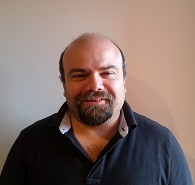
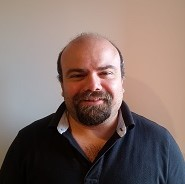
Add speakers & update pictures

diff --git a/index.html b/index.html
@@ -233,7 +233,7 @@
                             <span class="orador"><u>Orador</u>: <strong>Javier Villegas</strong></span>
                         </div>
                         <div class="timeline-content itpro right">
-                            <h2><small><strong>14:45 - 15:25</strong></small>Azure Event Hub - Procesando telemetria de las apps</h2>
+                            <h2><small><strong>14:45 - 15:25</strong></small>Azure Event Hub - Procesando telemetría de las apps</h2>
                             <p></p>
                             <span class="orador"><u>Orador</u>: <strong>Leandro Tuttini</strong></span>
                         </div>
@@ -323,8 +323,8 @@
                             <p>
                                 Requisitos:
                                 <ul class="mdl-typography--text-left">
-                                    <li>Visual Studio 2017 con las tools de Service Fabric instaladas (se instalan junto con VS).</li>
-                                    <li>Visual Studio 2015 + <a href="https://www.microsoft.com/web/handlers/webpi.ashx?command=getinstallerredirect&appid=MicrosoftAzure-ServiceFabric-VS2015" target="blank">tools de Service Fabric para VS2015</a>.</li>
+                                    <li>Cuenta de Azure</li>
+                                    <li>Visual Studio 2017</li>
                                 </ul>
                             </p>
                             <span class="orador"><u>Oradores</u>: <strong>Germán Küber</strong> y <strong>Gabriel Barzola</strong></span>
@@ -336,7 +336,288 @@
             <div class="mdl-typography--text-center section">
                 <a id="speakers"></a>
                 <div class="mdl-typography--display-1-color-contrast">Speakers</div>
-                <p>Próximamente</p>
+                <div class="mdl-grid">
+                    <div class="mdl-cell mdl-cell--1-col mdl-cell--hide-tablet mdl-cell--hide-phone"></div>
+                    <div class="mdl-cell mdl-cell--10-col mdl-cell--6-col-tablet mdl-cell--4-col-phone">
+                        <div class="mdl-grid">
+                            <div class="mdl-cell mdl-cell--4-col mdl-cell--6-col-tablet">
+                                <div class="mdl-card mdl-shadow--4dp">
+                                    <div class="mdl-card__title">
+                                        <h2 class="mdl-card__title-text">Rodolfo Finochietti</h2>
+                                    </div>
+                                    <div class="mdl-card__media">
+                                        <img src="content/images/speakers/rodolfo-finochietti.jpg" border="0" alt="" style="width:100%; height:auto;">
+                                    </div>
+                                    <div class="mdl-card__supporting-text">
+                                        Uma's and Gino's father and a computer programmer ;) Microsoft MVP.
+                                    </div>
+                                    <div class="mdl-card__actions">
+                                        <a target="_blank" href="https://twitter.com/rodolfof"><img src="https://www.gstatic.com/images/icons/material/system/2x/post_twitter_black_24dp.png" /></a>
+                                        <a target="_blank" href="http://www.facebook.com/rodolfo.eduardo.finochietti"><img src="https://www.gstatic.com/images/icons/material/system/2x/post_facebook_black_24dp.png" /></a>
+                                        <a target="_blank" href="http://www.linkedin.com/in/rodolfof"><img src="https://www.gstatic.com/images/icons/material/system/2x/post_linkedin_black_24dp.png" /></a>
+                                    </div>
+                                </div>
+                            </div>
+                            <div class="mdl-cell mdl-cell--4-col mdl-cell--6-col-tablet">
+                                <div class="mdl-card mdl-shadow--4dp">
+                                    <div class="mdl-card__title">
+                                        <h2 class="mdl-card__title-text">Maximiliano Accotto</h2>
+                                    </div>
+                                    <div class="mdl-card__media">
+                                        <img src="content/images/speakers/maxi-accotto.jpg" border="0" alt="" style="width:100%; height:auto;">
+                                    </div>
+                                    <div class="mdl-card__supporting-text">
+                                        Microsoft MVP, arquitecto, consultor y DBA en SQL Server at TriggerDB.
+                                    </div>
+                                    <div class="mdl-card__actions">
+                                        <a target="_blank" href="https://twitter.com/maxiaccotto"><img src="https://www.gstatic.com/images/icons/material/system/2x/post_twitter_black_24dp.png" /></a>
+                                        <a target="_blank" href="https://ar.linkedin.com/in/maxiaccotto"><img src="https://www.gstatic.com/images/icons/material/system/2x/post_linkedin_black_24dp.png" /></a>
+                                    </div>
+                                </div>
+                            </div>
+                            <div class="mdl-cell mdl-cell--4-col mdl-cell--6-col-tablet">
+                                <div class="mdl-card mdl-shadow--4dp">
+                                    <div class="mdl-card__title">
+                                        <h2 class="mdl-card__title-text">Guillermo Bellmann</h2>
+                                    </div>
+                                    <div class="mdl-card__media">
+                                        <img src="content/images/speakers/guillermo-bellmann.jpg" border="0" alt="" style="width:100%; height:auto;">
+                                    </div>
+                                    <div class="mdl-card__supporting-text">
+                                        Software architect en Lagash. Microsoft Azure MVP. MCP.
+                                    </div>
+                                    <div class="mdl-card__actions">
+                                        <a target="_blank" href="https://twitter.com/gjbellmann"><img src="https://www.gstatic.com/images/icons/material/system/2x/post_twitter_black_24dp.png" /></a>
+                                        <a target="_blank" href="https://www.linkedin.com/in/gbellmann/"><img src="https://www.gstatic.com/images/icons/material/system/2x/post_linkedin_black_24dp.png" /></a>
+                                    </div>
+                                </div>
+                            </div>
+                            <div class="mdl-cell mdl-cell--4-col mdl-cell--6-col-tablet">
+                                <div class="mdl-card mdl-shadow--4dp">
+                                    <div class="mdl-card__title">
+                                        <h2 class="mdl-card__title-text">Pablo Di Loreto</h2>
+                                    </div>
+                                    <div class="mdl-card__media">
+                                        <img src="content/images/speakers/pablo-diloreto.jpg" border="0" alt="" style="width:100%; height:auto;">
+                                    </div>
+                                    <div class="mdl-card__supporting-text">
+                                        Architecture &amp; Development Manager en Algeiba S.A., Microsoft MVP.
+                                    </div>
+                                    <div class="mdl-card__actions">
+                                        <a target="_blank" href="https://twitter.com/PabloDiLoreto"><img src="https://www.gstatic.com/images/icons/material/system/2x/post_twitter_black_24dp.png" /></a>
+                                        <a target="_blank" href="https://www.linkedin.com/in/pablodiloreto/"><img src="https://www.gstatic.com/images/icons/material/system/2x/post_linkedin_black_24dp.png" /></a>
+                                    </div>
+                                </div>
+                            </div>
+                            <div class="mdl-cell mdl-cell--4-col mdl-cell--6-col-tablet">
+                                <div class="mdl-card mdl-shadow--4dp">
+                                    <div class="mdl-card__title">
+                                        <h2 class="mdl-card__title-text">Sebastián Pérez</h2>
+                                    </div>
+                                    <div class="mdl-card__media">
+                                        <img src="content/images/speakers/sebastian-perez.jpg" border="0" alt="" style="width:100%; height:auto;">
+                                    </div>
+                                    <div class="mdl-card__supporting-text">
+                                            Xamarin Certified Mobile Professional.
+                                            Blockchain Dev &amp; Partner Tech Manager en RSK Smart.
+                                    </div>
+                                    <div class="mdl-card__actions">
+                                        <a target="_blank" href="https://twitter.com/garudaslap"><img src="https://www.gstatic.com/images/icons/material/system/2x/post_twitter_black_24dp.png" /></a>
+                                        <a target="_blank" href="https://www.linkedin.com/in/sebasti%C3%A1n-leonardo-p%C3%A9rez-6881659/"><img src="https://www.gstatic.com/images/icons/material/system/2x/post_linkedin_black_24dp.png" /></a>
+                                    </div>
+                                </div>
+                            </div>
+                            <div class="mdl-cell mdl-cell--4-col mdl-cell--6-col-tablet">
+                                <div class="mdl-card mdl-shadow--4dp">
+                                    <div class="mdl-card__title">
+                                        <h2 class="mdl-card__title-text">Javier Villegas</h2>
+                                    </div>
+                                    <div class="mdl-card__media">
+                                        <img src="content/images/speakers/javier-villegas.jpg" border="0" alt="" style="width:100%; height:auto;">
+                                    </div>
+                                    <div class="mdl-card__supporting-text">
+                                        DBA Manager, Mediterranean Shipping Company
+                                    </div>
+                                    <div class="mdl-card__actions">
+                                        <a target="_blank" href="https://twitter.com/javier_vill"><img src="https://www.gstatic.com/images/icons/material/system/2x/post_twitter_black_24dp.png" /></a>
+                                        <a target="_blank" href="https://www.linkedin.com/in/javiervillegas/"><img src="https://www.gstatic.com/images/icons/material/system/2x/post_linkedin_black_24dp.png" /></a>
+                                    </div>
+                                </div>
+                            </div>
+                            <div class="mdl-cell mdl-cell--4-col mdl-cell--6-col-tablet">
+                                <div class="mdl-card mdl-shadow--4dp">
+                                    <div class="mdl-card__title">
+                                        <h2 class="mdl-card__title-text">Florencia Nodar</h2>
+                                    </div>
+                                    <div class="mdl-card__media">
+                                        <img src="content/images/speakers/florencia-nodar.jpg" border="0" alt="" style="width:100%; height:auto;">
+                                    </div>
+                                    <div class="mdl-card__supporting-text">
+                                        Software Solution Developer, Algeiba IT
+                                    </div>
+                                    <div class="mdl-card__actions">
+                                        <a target="_blank" href="https://twitter.com/nodar_flor"><img src="https://www.gstatic.com/images/icons/material/system/2x/post_twitter_black_24dp.png" /></a>
+                                        <a target="_blank" href="https://www.linkedin.com/in/florencia-nodar-2697b211b/"><img src="https://www.gstatic.com/images/icons/material/system/2x/post_linkedin_black_24dp.png" /></a>
+                                    </div>
+                                </div>
+                            </div>
+                            <div class="mdl-cell mdl-cell--4-col mdl-cell--6-col-tablet">
+                                <div class="mdl-card mdl-shadow--4dp">
+                                    <div class="mdl-card__title">
+                                        <h2 class="mdl-card__title-text">Sabrina Orué</h2>
+                                    </div>
+                                    <div class="mdl-card__media">
+                                        <img src="content/images/speakers/sabrina-orue.jpg" border="0" alt="" style="width:100%; height:auto;">
+                                    </div>
+                                    <div class="mdl-card__supporting-text">
+                                        Software Solution Developer, Algeiba IT
+                                    </div>
+                                    <div class="mdl-card__actions">
+                                        <a target="_blank" href="https://twitter.com/SabryOrue"><img src="https://www.gstatic.com/images/icons/material/system/2x/post_twitter_black_24dp.png" /></a>
+                                        <a target="_blank" href="https://www.linkedin.com/in/sabrina-ayelen-orué-4aab5b131/"><img src="https://www.gstatic.com/images/icons/material/system/2x/post_linkedin_black_24dp.png" /></a>
+                                    </div>
+                                </div>
+                            </div>
+                            <div class="mdl-cell mdl-cell--4-col mdl-cell--6-col-tablet">
+                                <div class="mdl-card mdl-shadow--4dp">
+                                    <div class="mdl-card__title">
+                                        <h2 class="mdl-card__title-text">Branko Straub</h2>
+                                    </div>
+                                    <div class="mdl-card__media">
+                                        <img src="content/images/speakers/branko-straub.jpg" border="0" alt="" style="width:100%; height:auto;">
+                                    </div>
+                                    <div class="mdl-card__supporting-text">
+                                        Sr. Tech Evangelist, Microsoft.
+                                    </div>
+                                    <div class="mdl-card__actions">
+                                        <a target="_blank" href="https://twitter.com/branstraub"><img src="https://www.gstatic.com/images/icons/material/system/2x/post_twitter_black_24dp.png" /></a>
+                                        <a target="_blank" href="https://www.linkedin.com/in/branstraub/"><img src="https://www.gstatic.com/images/icons/material/system/2x/post_linkedin_black_24dp.png" /></a>
+                                    </div>
+                                </div>
+                            </div>
+                            <div class="mdl-cell mdl-cell--4-col mdl-cell--6-col-tablet">
+                                <div class="mdl-card mdl-shadow--4dp">
+                                    <div class="mdl-card__title">
+                                        <h2 class="mdl-card__title-text">Germán Küber</h2>
+                                    </div>
+                                    <div class="mdl-card__media">
+                                        <img src="content/images/speakers/german-kuber.jpg" border="0" alt="" style="width:100%; height:auto;">
+                                    </div>
+                                    <div class="mdl-card__supporting-text">
+                                        Full stack developer.
+                                    </div>
+                                    <div class="mdl-card__actions">
+                                        <a target="_blank" href="https://twitter.com/germankuber"><img src="https://www.gstatic.com/images/icons/material/system/2x/post_twitter_black_24dp.png" /></a>
+                                        <a target="_blank" href="https://www.linkedin.com/in/germankuber"><img src="https://www.gstatic.com/images/icons/material/system/2x/post_linkedin_black_24dp.png" /></a>
+                                    </div>
+                                </div>
+                            </div>
+                            <div class="mdl-cell mdl-cell--4-col mdl-cell--6-col-tablet">
+                                <div class="mdl-card mdl-shadow--4dp">
+                                    <div class="mdl-card__title">
+                                        <h2 class="mdl-card__title-text">Gabriel Barzola</h2>
+                                    </div>
+                                    <div class="mdl-card__media">
+                                        <img src="content/images/speakers/gabriel-barzola.jpg" border="0" alt="" style="width:100%; height:auto;">
+                                    </div>
+                                    <div class="mdl-card__supporting-text">
+                                        Microsoft Azure and C# Developer.
+                                    </div>
+                                    <div class="mdl-card__actions">
+                                        <a target="_blank" href="https://twitter.com/BarzolaGabriel"><img src="https://www.gstatic.com/images/icons/material/system/2x/post_twitter_black_24dp.png" /></a>
+                                        <a target="_blank" href="https://www.linkedin.com/in/gbarzola/"><img src="https://www.gstatic.com/images/icons/material/system/2x/post_linkedin_black_24dp.png" /></a>
+                                    </div>
+                                </div>
+                            </div>
+                            <div class="mdl-cell mdl-cell--4-col mdl-cell--6-col-tablet">
+                                <div class="mdl-card mdl-shadow--4dp">
+                                    <div class="mdl-card__title">
+                                        <h2 class="mdl-card__title-text">Fernando Sonego</h2>
+                                    </div>
+                                    <div class="mdl-card__media">
+                                        <img src="content/images/speakers/fernando-sonego.jpg" border="0" alt="" style="width:100%; height:auto;">
+                                    </div>
+                                    <div class="mdl-card__supporting-text">
+                                        Software Architect, Algeiba IT
+                                    </div>
+                                    <div class="mdl-card__actions">
+                                        <a target="_blank" href="https://twitter.com/FernandoSonego"><img src="https://www.gstatic.com/images/icons/material/system/2x/post_twitter_black_24dp.png" /></a>
+                                        <a target="_blank" href="https://www.linkedin.com/in/fernando-sonego-a7378231/"><img src="https://www.gstatic.com/images/icons/material/system/2x/post_linkedin_black_24dp.png" /></a>
+                                    </div>
+                                </div>
+                            </div>
+                            <div class="mdl-cell mdl-cell--4-col mdl-cell--6-col-tablet">
+                                <div class="mdl-card mdl-shadow--4dp">
+                                    <div class="mdl-card__title">
+                                        <h2 class="mdl-card__title-text">Leandro Tuttini</h2>
+                                    </div>
+                                    <div class="mdl-card__media">
+                                        <img src="content/images/speakers/leandro-tuttini.jpg" border="0" alt="" style="width:100%; height:auto;">
+                                    </div>
+                                    <div class="mdl-card__supporting-text">
+                                            Lagash Senior Developer. Microsoft MVP Visual Studio and Development Technologies.                                            
+                                    </div>
+                                    <div class="mdl-card__actions">
+                                        <a target="_blank" href="https://twitter.com/LeandroTuttini"><img src="https://www.gstatic.com/images/icons/material/system/2x/post_twitter_black_24dp.png" /></a>
+                                        <a target="_blank" href="https://www.linkedin.com/in/ltuttini/"><img src="https://www.gstatic.com/images/icons/material/system/2x/post_linkedin_black_24dp.png" /></a>
+                                    </div>
+                                </div>
+                            </div>
+                            <div class="mdl-cell mdl-cell--4-col mdl-cell--6-col-tablet">
+                                <div class="mdl-card mdl-shadow--4dp">
+                                    <div class="mdl-card__title">
+                                        <h2 class="mdl-card__title-text">Juan José Gazzola</h2>
+                                    </div>
+                                    <div class="mdl-card__media">
+                                        <img src="content/images/speakers/juan-jose-gazzola.jpg" border="0" alt="" style="width:100%; height:auto;">
+                                    </div>
+                                    <div class="mdl-card__supporting-text">
+                                        Owner of JJG Sistemas.
+                                    </div>
+                                    <div class="mdl-card__actions">
+                                        <a target="_blank" href="https://twitter.com/juanjo_gazzola"><img src="https://www.gstatic.com/images/icons/material/system/2x/post_twitter_black_24dp.png" /></a>
+                                        <a target="_blank" href="https://www.linkedin.com/in/juanjogazzola/"><img src="https://www.gstatic.com/images/icons/material/system/2x/post_linkedin_black_24dp.png" /></a>
+                                    </div>
+                                </div>
+                            </div>
+                            <div class="mdl-cell mdl-cell--4-col mdl-cell--6-col-tablet">
+                                <div class="mdl-card mdl-shadow--4dp">
+                                    <div class="mdl-card__title">
+                                        <h2 class="mdl-card__title-text">Alejandro Barrionuevo</h2>
+                                    </div>
+                                    <div class="mdl-card__media">
+                                        <img src="content/images/speakers/alejandro-barrionuevo.jpg" border="0" alt="" style="width:100%; height:auto;">
+                                    </div>
+                                    <div class="mdl-card__supporting-text">
+                                        Consultor y arquitecto de infraestructura, Algeiba IT
+                                    </div>
+                                    <div class="mdl-card__actions">
+                                        <a target="_blank" href="https://twitter.com/alexalgeiba"><img src="https://www.gstatic.com/images/icons/material/system/2x/post_twitter_black_24dp.png" /></a>
+                                        <a target="_blank" href="https://www.linkedin.com/in/alexbarrionuevo/"><img src="https://www.gstatic.com/images/icons/material/system/2x/post_linkedin_black_24dp.png" /></a>
+                                    </div>
+                                </div>
+                            </div>
+                            <div class="mdl-cell mdl-cell--4-col mdl-cell--6-col-tablet">
+                                <div class="mdl-card mdl-shadow--4dp">
+                                    <div class="mdl-card__title">
+                                        <h2 class="mdl-card__title-text">Esteban Yañez</h2>
+                                    </div>
+                                    <div class="mdl-card__media">
+                                        <img src="content/images/speakers/esteban-yanez.jpg" border="0" alt="" style="width:100%; height:auto;">
+                                    </div>
+                                    <div class="mdl-card__supporting-text">
+                                        .NET Developer en Lagash Systems
+                                    </div>
+                                    <div class="mdl-card__actions">
+                                        <a target="_blank" href="https://twitter.com/Teban3010"><img src="https://www.gstatic.com/images/icons/material/system/2x/post_twitter_black_24dp.png" /></a>
+                                        <a target="_blank" href="https://www.linkedin.com/in/eyanez89/"><img src="https://www.gstatic.com/images/icons/material/system/2x/post_linkedin_black_24dp.png" /></a>
+                                    </div>
+                                </div>
+                            </div>
+                        </div>
+                    </div>
+                    <div class="mdl-cell mdl-cell--1-col mdl-cell--hide-tablet mdl-cell--hide-phone"></div>
+                </div>            
             </div>
 
             <div class="mdl-typography--text-center section">
